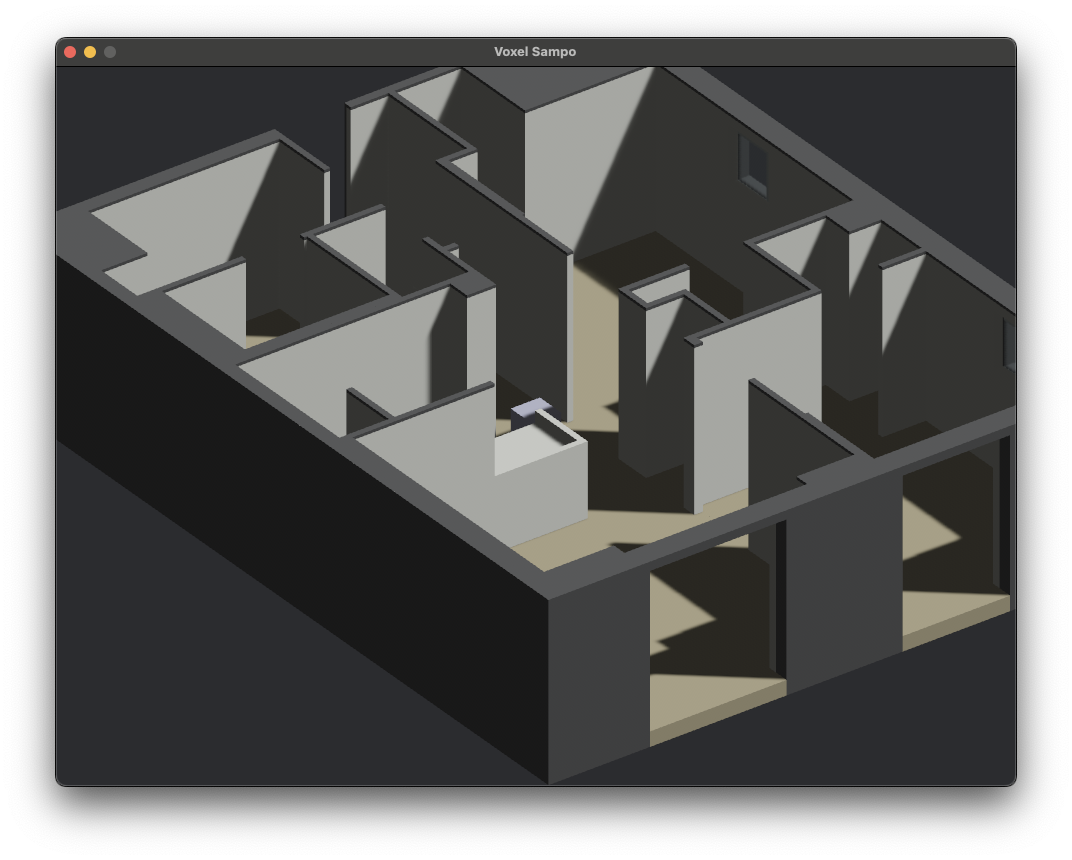
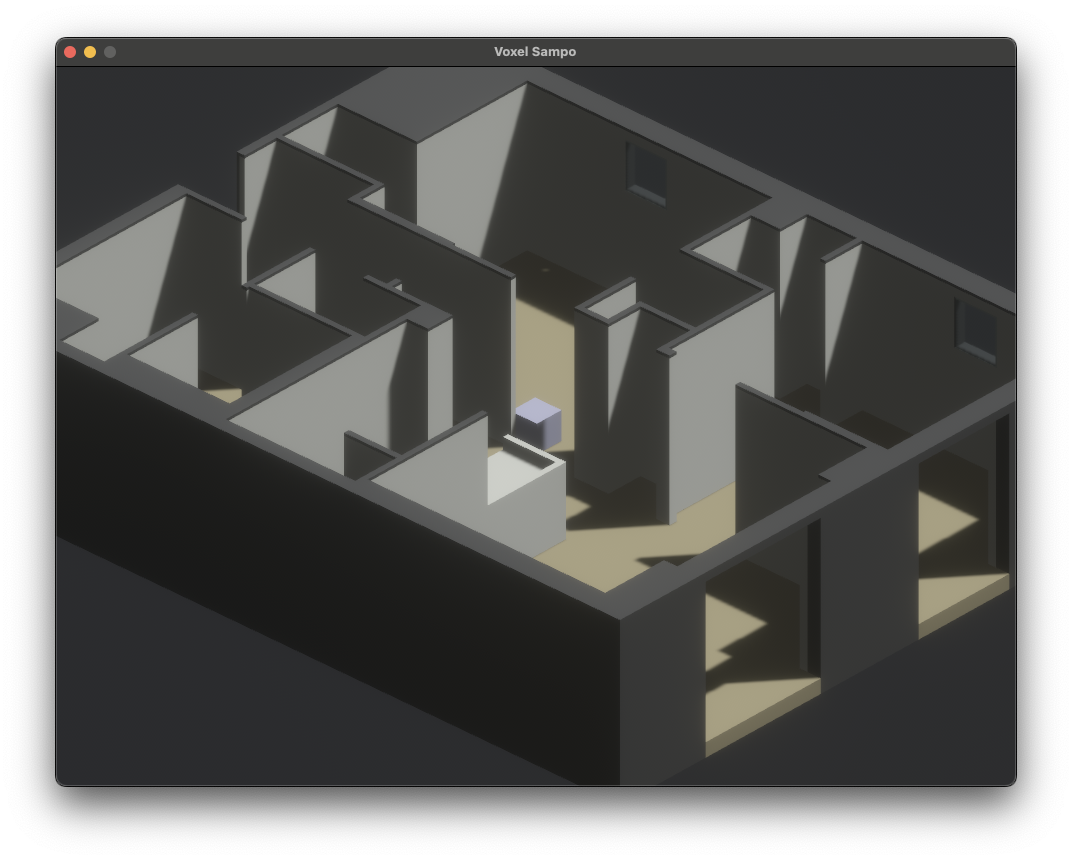
tweak lighting

Changed region(s): [[0.0308, 0.0605, 0.9543, 0.907], [0.8312, 0.5744, 0.9543, 0.7558], [0.7388, 0.5442, 0.7696, 0.5744]]

diff --git a/src/spawn/mod.rs b/src/spawn/mod.rs
@@ -1,4 +1,12 @@
-use bevy::{prelude::*, render::camera::ScalingMode};
+use bevy::{
+    prelude::*,
+    render::camera::ScalingMode,
+    core_pipeline::{
+        bloom::Bloom,
+        core_3d::ScreenSpaceTransmissionQuality,
+        tonemapping::Tonemapping,
+    },
+};
 
 use crate::camera::{
     CameraAngle, CameraPositionController, CameraRotationController, CameraZoomController,
@@ -30,10 +38,10 @@ fn spawn_player(
         Player::new_with_config(&config.player),
         Mesh3d(meshes.add(Mesh::from(Cuboid::new(0.5, 0.5, 0.5)))),
         MeshMaterial3d(materials.add(StandardMaterial {
-            base_color: Color::srgb(0.8, 0.8, 0.9), // 少し青みがかった白
-            metallic: 0.1, // 少しだけメタリック
-            perceptual_roughness: 0.3, // 適度な粗さ
-            reflectance: 0.5, // 適度な反射率
+            base_color: Color::srgb(0.8, 0.8, 0.9),
+            metallic: 0.1,
+            perceptual_roughness: 0.3,
+            reflectance: 0.5,
             ..default()
         })),
         Transform::from_xyz(
@@ -49,11 +57,18 @@ fn spawn_camera(commands: &mut Commands, config: &Res<Config>) {
     let zoom_controller = CameraZoomController::new(&config.camera);
     let camera_angle = CameraAngle::default();
 
-    // カメラの初期位置を設定に基づいて計算
     let initial_transform = camera_angle.get_transform_from_angle(Vec3::ZERO, &config.camera);
 
     commands.spawn((
-        Camera3d::default(),
+        Camera3d {
+            screen_space_specular_transmission_quality: ScreenSpaceTransmissionQuality::High,
+            screen_space_specular_transmission_steps: 1,
+            ..default()
+        },
+        Camera {
+            hdr: true,
+            ..Default::default()
+        },
         initial_transform,
         Projection::Orthographic(OrthographicProjection {
             scaling_mode: ScalingMode::FixedVertical {
@@ -63,6 +78,11 @@ fn spawn_camera(commands: &mut Commands, config: &Res<Config>) {
             far: 1000.0,
             ..OrthographicProjection::default_3d()
         }),
+        Tonemapping::SomewhatBoringDisplayTransform,
+        Bloom {
+            intensity: 0.3,
+            ..default()
+        },
         camera_angle,
         rotation_controller,
         zoom_controller,
@@ -81,7 +101,7 @@ fn spawn_lighting(commands: &mut Commands, asset_server: &Res<AssetServer>) {
     commands.spawn(EnvironmentMapLight {
         diffuse_map: asset_server.load("papermill_diffuse.ktx2"),
         specular_map: asset_server.load("papermill_specular.ktx2"),
-        intensity: 2000.0,
+        intensity: 300.0,
         rotation: Quat::IDENTITY,
         affects_lightmapped_mesh_diffuse: true,
     });
@@ -93,6 +113,6 @@ fn spawn_lighting(commands: &mut Commands, asset_server: &Res<AssetServer>) {
             shadows_enabled: true,
             ..Default::default()
         },
-        Transform::IDENTITY.looking_to(Vec3::new(1.0, -1.8, 0.85), Vec3::Y),
+        Transform::IDENTITY.looking_to(Vec3::new(1.0, -2.5, 0.85), Vec3::Y),
     ));
 }

diff --git a/src/config/mod.rs b/src/config/mod.rs
@@ -1,6 +1,5 @@
 use bevy::prelude::*;
 
-// デフォルト値の定数
 pub const PLAYER_MOVE_SPEED: f32 = 1.0;
 pub const PLAYER_MOVE_DURATION: f32 = 0.2;
 pub const CAMERA_DISTANCE: f32 = 40.0;
@@ -9,7 +8,6 @@ pub const CAMERA_ANGLES: [f32; 4] = [60.0, 150.0, 240.0, 330.0];
 pub const BASE_ZOOM: f32 = 10.0;
 pub const ZOOM_OUT_VALUE: f32 = 20.0;
 
-// キーバインド設定
 #[derive(Debug, Clone)]
 pub struct KeyBindings {
     pub camera_rotate_clockwise: KeyCode,
